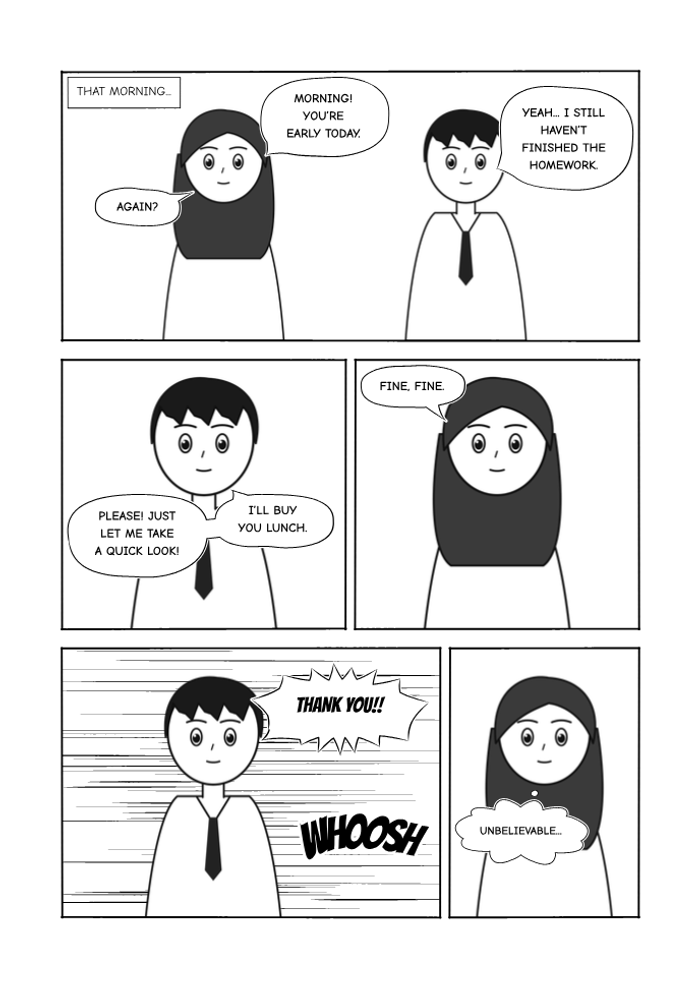
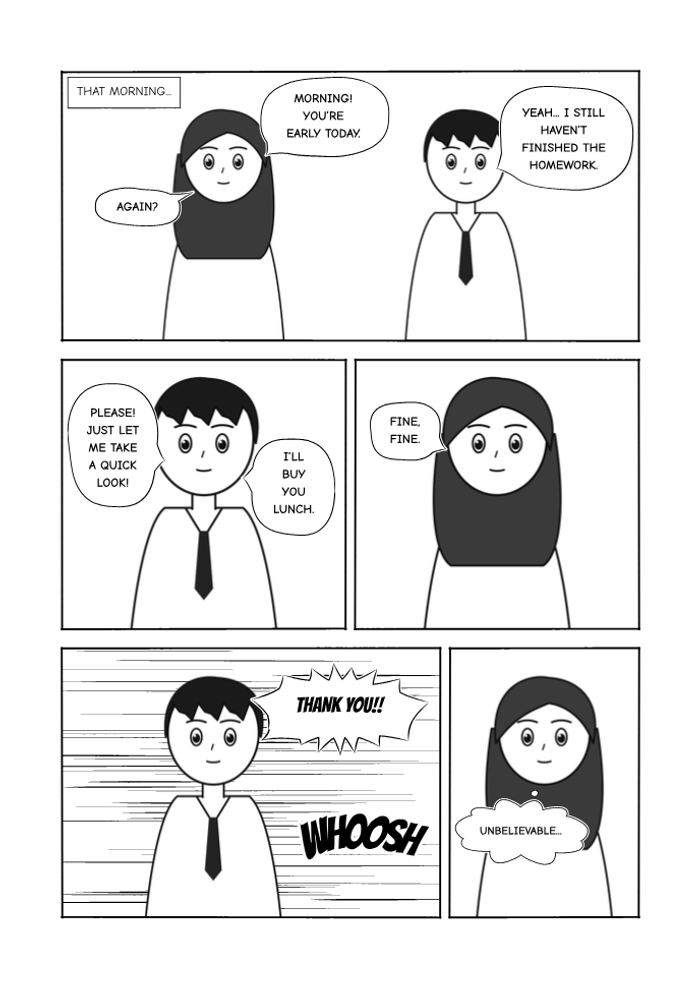
自動配置で行の長さを変えた組み方も候補にし、人物を覆わない位置を選べるようにする（reshape）

Changed region(s): [[0.09, 0.3947, 0.48, 0.6073], [0.51, 0.3644, 0.66, 0.4555]]

diff --git a/src/render/compose.ts b/src/render/compose.ts
@@ -1,6 +1,6 @@
 // Page composition: layout all elements and build the display list (spec 4.12).
 import { BLACK, WHITE, parseColor } from "../core/color.js";
-import type { DiagnosticBag } from "../core/diagnostics.js";
+import { DiagnosticBag } from "../core/diagnostics.js";
 import { Rng } from "../core/random.js";
 import { parseAngle, toMm } from "../core/units.js";
 import { type ElemCtx, type Silhouette, placeCtx, tag } from "../elements/context.js";
@@ -195,7 +195,14 @@ export async function composePage(doc: ResolvedDoc, page: RPage, physicalIndex: 
     }
     // place balloons
     const sils = await silhouettes(refs, ctx);
-    placeBalloons(plans.map((p) => p.plan), ctx, refs, processed, sils);
+    const replan = (pl: BalloonPlan, props: Obj): BalloonPlan | null => {
+      try {
+        return planBalloon({ ...pl.el, props }, { ...ctx, bag: new DiagnosticBag(), coordsBox: coordsFor(pl.el, ctx, geom) });
+      } catch {
+        return null;
+      }
+    };
+    placeBalloons(plans.map((p) => p.plan), ctx, refs, processed, sils, replan);
     ctx = { ...ctx, silhouettes: sils };
     // consecutive auto-placed lines of one speaker that end up side by side are joined (one tail)
     const linkedIds = new Set<string>();
@@ -880,7 +887,7 @@ function silhouetteCover(r: Rect, sils: Silhouette[]): number {
   return Math.min(1, cov);
 }
 
-function placeBalloons(plans: BalloonPlan[], ctx: ElemCtx, refs: RefRegistry, processed: Map<string, { bbox: Rect }>, sils: Silhouette[] = []) {
+function placeBalloons(plans: BalloonPlan[], ctx: ElemCtx, refs: RefRegistry, processed: Map<string, { bbox: Rect }>, sils: Silhouette[] = [], replan?: (pl: BalloonPlan, props: Obj) => BalloonPlan | null) {
   const u = ctx.u;
   const geom = ctx.geom;
   const rtl = geom.rtl;
@@ -957,13 +964,15 @@ function placeBalloons(plans: BalloonPlan[], ctx: ElemCtx, refs: RefRegistry, pr
     prevRect: Rect | null;
     centers: Map<BalloonPlan, Vec>;
     costs: Map<BalloonPlan, number>;
+    /** the variant (line length) chosen for each balloon */
+    shapes: Map<BalloonPlan, BalloonPlan>;
     total: number;
     flowX: number;
     flowY: number;
     rowH: number;
   }
   const BEAM = 6;
-  let beam: BeamState[] = [{ rects: placedRects.slice(), prevS: null, prevRect: null, centers: new Map(), costs: new Map(), total: 0, flowX: rtl ? area.x + area.w : area.x, flowY: area.y, rowH: 0 }];
+  let beam: BeamState[] = [{ rects: placedRects.slice(), prevS: null, prevRect: null, centers: new Map(), costs: new Map(), shapes: new Map(), total: 0, flowX: rtl ? area.x + area.w : area.x, flowY: area.y, rowH: 0 }];
   const step = Math.max(1.5 * u.k, Math.min(area.w, area.h) / 28);
   const air = 2 * u.k;
   for (const pl of plans) {
@@ -1001,33 +1010,47 @@ function placeBalloons(plans: BalloonPlan[], ctx: ElemCtx, refs: RefRegistry, pr
     const who = pl.props.who as string | undefined;
     const offSide = isObj(pl.props.tail) ? ((pl.props.tail as Obj).offscreen as string | undefined) : undefined;
     const speaker = who && !offSide ? refs.point(who, pid) : null;
-    const R = (w + h) / 4;
     // cost weights (spec 6.12.2), overridable per balloon with autoPlace.weights
-    const W = { order: 120, rise: 30, flow: 3, start: 4, overlap: 50, avoid: 60, figure: 12, speaker: 1.5, tail: 4, top: 1, outside: 30, offscreen: 8, ...((apOf(pl).weights as Record<string, number> | undefined) ?? {}) };
-    // the parts of the cost that do not depend on the other balloons are computed once
-    const cells: { c: Vec; rect: Rect; base: number; s: number }[] = [];
-    for (let y = area.y + h / 2; y <= area.y + area.h - h / 2 + 0.01 || (area.h < h && y <= area.y + h / 2 + 0.01); y += step) {
-      for (let x = area.x + w / 2; x <= area.x + area.w - w / 2 + 0.01 || (area.w < w && x <= area.x + w / 2 + 0.01); x += step) {
-        const c = { x, y };
-        const rect = { x: x - w / 2, y: y - h / 2, w, h };
-        const A = w * h;
-        let cost = 0;
-        // lettering keeps a little air around it: text and SFX boxes count with a margin
-        for (const ob of obstacles) cost += (ob.w === 60 ? W.avoid : ob.w) * (ob.ellipse ? ellipseOverlap(rect, ob.r) : rectOverlapArea(rect, rectInset(ob.r, -air)) / A);
-        for (const hr of hard) if (rectOverlapArea(rect, hr) > 0) cost += 1000;
-        if (sils.length) cost += W.figure * silhouetteCover(rect, sils);
-        if (speaker) cost += W.speaker * Math.abs(Math.hypot(x - speaker.x, y - speaker.y) / R - 1.6);
-        cost += W.top * ((y - area.y) / Math.max(1, area.h));
-        if (offSide) {
-          const dEdge = offSide === "right" ? area.x + area.w - (x + w / 2) : offSide === "left" ? x - w / 2 - area.x : offSide === "top" ? y - h / 2 - area.y : area.y + area.h - (y + h / 2);
-          cost += W.offscreen * Math.max(0, dEdge) / Math.max(1, offSide === "left" || offSide === "right" ? area.w : area.h);
-        }
-        const inside = rectIntersect(rect, area);
-        cost += W.outside * (1 - (inside ? inside.w * inside.h : 0) / A);
-        cells.push({ c, rect, base: cost, s: sOf(c, h) });
+    const W = { order: 120, rise: 30, flow: 3, start: 4, overlap: 50, avoid: 60, figure: 25, speaker: 1.5, tail: 4, top: 1, outside: 30, offscreen: 8, reshape: 3, ...((apOf(pl).weights as Record<string, number> | undefined) ?? {}) };
+    // the balloon may also be set with shorter or longer lines when that finds it a free place
+    const variants: { vp: BalloonPlan; extra: number }[] = [{ vp: pl, extra: 0 }];
+    if (replan && apOf(pl).reshape !== false && pl.props.maxChars === undefined && Array.from(pl.text.plain ?? "").length > 5) {
+      const base = pl.text.lines.length ? Math.max(...pl.text.lines.map((l) => Array.from(l.text ?? "").length)) : 8;
+      for (const m of [Math.max(3, Math.round(base * 0.6)), Math.round(base * 1.5)]) {
+        if (m === base) continue;
+        const vp = replan(pl, { ...pl.props, maxChars: m });
+        if (vp && (Math.abs(vp.outer.w - pl.outer.w) > 1 || Math.abs(vp.outer.h - pl.outer.h) > 1)) variants.push({ vp, extra: W.reshape });
       }
     }
-    if (!cells.length) cells.push({ c: center(area), rect: { x: center(area).x - w / 2, y: center(area).y - h / 2, w, h }, base: 999, s: sOf(center(area), h) });
+    // the parts of the cost that do not depend on the other balloons are computed once
+    const cells: { c: Vec; rect: Rect; base: number; s: number; vp: BalloonPlan; w: number; h: number }[] = [];
+    for (const { vp, extra } of variants) {
+      const w = vp.outer.w;
+      const h = vp.outer.h;
+      const R = (w + h) / 4;
+      for (let y = area.y + h / 2; y <= area.y + area.h - h / 2 + 0.01 || (area.h < h && y <= area.y + h / 2 + 0.01); y += step) {
+        for (let x = area.x + w / 2; x <= area.x + area.w - w / 2 + 0.01 || (area.w < w && x <= area.x + w / 2 + 0.01); x += step) {
+          const c = { x, y };
+          const rect = { x: x - w / 2, y: y - h / 2, w, h };
+          const A = w * h;
+          let cost = extra;
+          // lettering keeps a little air around it: text and SFX boxes count with a margin
+          for (const ob of obstacles) cost += (ob.w === 60 ? W.avoid : ob.w) * (ob.ellipse ? ellipseOverlap(rect, ob.r) : rectOverlapArea(rect, rectInset(ob.r, -air)) / A);
+          for (const hr of hard) if (rectOverlapArea(rect, hr) > 0) cost += 1000;
+          if (sils.length) cost += W.figure * silhouetteCover(rect, sils);
+          if (speaker) cost += W.speaker * Math.abs(Math.hypot(x - speaker.x, y - speaker.y) / R - 1.6);
+          cost += W.top * ((y - area.y) / Math.max(1, area.h));
+          if (offSide) {
+            const dEdge = offSide === "right" ? area.x + area.w - (x + w / 2) : offSide === "left" ? x - w / 2 - area.x : offSide === "top" ? y - h / 2 - area.y : area.y + area.h - (y + h / 2);
+            cost += W.offscreen * Math.max(0, dEdge) / Math.max(1, offSide === "left" || offSide === "right" ? area.w : area.h);
+          }
+          const inside = rectIntersect(rect, area);
+          cost += W.outside * (1 - (inside ? inside.w * inside.h : 0) / A);
+          cells.push({ c, rect, base: cost, s: sOf(c, h), vp, w, h });
+        }
+      }
+    }
+    if (!cells.length) cells.push({ c: center(area), rect: { x: center(area).x - w / 2, y: center(area).y - h / 2, w, h }, base: 999, s: sOf(center(area), h), vp: pl, w, h });
     for (const st of beam) {
       const scored = cells.map((cell) => {
         let cost = cell.base;
@@ -1039,13 +1062,13 @@ function placeBalloons(plans: BalloonPlan[], ctx: ElemCtx, refs: RefRegistry, pr
           // letterers set the next balloon right after the previous one, or at the start of the next row
           const P = st.prevRect;
           const g = 1.5 * u.k;
-          const nextX = rtl ? P.x - g - w / 2 : P.x + P.w + g + w / 2;
-          const rowX = rtl ? area.x + area.w - w / 2 : area.x + w / 2;
+          const nextX = rtl ? P.x - g - cell.w / 2 : P.x + P.w + g + cell.w / 2;
+          const rowX = rtl ? area.x + area.w - cell.w / 2 : area.x + cell.w / 2;
           const d1 = Math.hypot(cell.c.x - nextX, cell.rect.y - P.y);
           const d2 = Math.hypot(cell.c.x - rowX, cell.rect.y - (P.y + P.h + g));
           cost += W.flow * Math.min(d1, d2) / Math.max(1, Math.hypot(area.w, area.h));
         }
-        const A = w * h;
+        const A = cell.w * cell.h;
         // balloons that touch read as one shape: keep about 2 mm between them
         for (const pr of st.rects) cost += W.overlap * (rectOverlapArea(cell.rect, pr) / A) + W.overlap * 0.3 * (rectOverlapArea(cell.rect, rectInset(pr, -air)) / A);
         // tail path crossing other balloons
@@ -1057,7 +1080,7 @@ function placeBalloons(plans: BalloonPlan[], ctx: ElemCtx, refs: RefRegistry, pr
       const picks: typeof scored = [];
       for (const sc of scored) {
         if (picks.length >= BEAM) break;
-        if (picks.some((pk) => Math.hypot(pk.cell.c.x - sc.cell.c.x, pk.cell.c.y - sc.cell.c.y) < step * 2.5)) continue;
+        if (picks.some((pk) => pk.cell.vp === sc.cell.vp && Math.hypot(pk.cell.c.x - sc.cell.c.x, pk.cell.c.y - sc.cell.c.y) < step * 2.5)) continue;
         picks.push(sc);
       }
       for (const pk of picks) {
@@ -1065,7 +1088,9 @@ function placeBalloons(plans: BalloonPlan[], ctx: ElemCtx, refs: RefRegistry, pr
         centers.set(pl, pk.cell.c);
         const costs = new Map(st.costs);
         costs.set(pl, pk.cost);
-        next.push({ ...st, rects: [...st.rects, pk.cell.rect], prevS: pk.cell.s, prevRect: pk.cell.rect, centers, costs, total: st.total + pk.cost });
+        const shapes = new Map(st.shapes);
+        shapes.set(pl, pk.cell.vp);
+        next.push({ ...st, rects: [...st.rects, pk.cell.rect], prevS: pk.cell.s, prevRect: pk.cell.rect, centers, costs, shapes, total: st.total + pk.cost });
       }
     }
     next.sort((p, q) => p.total - q.total);
@@ -1077,6 +1102,8 @@ function placeBalloons(plans: BalloonPlan[], ctx: ElemCtx, refs: RefRegistry, pr
     if (pl.explicit || !c) continue;
     const threshold = typeof apOf(pl).threshold === "number" ? (apOf(pl).threshold as number) : 25;
     if ((chosen.costs.get(pl) ?? 0) > threshold) ctx.bag.warn("BALLOON_NO_SPACE", `no good position for balloon ${pl.el.id}`, { path: pl.el.path, elementId: pl.el.id });
+    const vp = chosen.shapes.get(pl);
+    if (vp && vp !== pl) Object.assign(pl, { ...vp, el: pl.el, props: pl.props });
     pl.center = { x: c.x - (pl.outer.x + pl.outer.w / 2), y: c.y - (pl.outer.y + pl.outer.h / 2) };
   }
   // reading-order and overlap checks over the final positions

diff --git a/docs/06-balloons.md b/docs/06-balloons.md
@@ -435,7 +435,8 @@ panels:
 | 読み始め | `start` | 先頭の吹き出しの、読み始めの角（`rtl` なら右上）からの距離 | 4 |
 | 重なり | `overlap` | 他の吹き出し・文字との重なりの面積の比。吹き出し・文字・擬音の矩形は 2 bmm 広げて測り（吹き出しどうしは広げた部分を 0.3 倍で数える）、くっつき過ぎを避ける | 50 |
 | 回避領域 | `avoid` | `face`、`avoid` との重なりの比。`face` は外接矩形に内接する楕円（12 % 広げる）として測る。`mouth` を覆う場合は 1000 | 60 |
-| 人物 | `figure` | キャラクターの画像の不透明な部分（シルエット）を覆う比 | 12 |
+| 人物 | `figure` | キャラクターの画像の不透明な部分（シルエット）を覆う比 | 25 |
+| 組み替え | `reshape` | 行の長さを変えた組み方（下記）を使う場合に加える | 3 |
 | 話者との距離 | `speaker` | 話者のアンカーとの距離が、吹き出しの半径の 1.6 倍から離れるほど大きい | 1.5 |
 | しっぽ | `tail` | 話者へのしっぽの経路が、置いた吹き出しと交わるごとに加える | 4 |
 | 上寄せ | `top` | 中心の y の正規化値（上ほど小さい） | 1 |
@@ -443,6 +444,7 @@ panels:
 | 画面外の話者 | `offscreen` | 画面外の話者（`tail.offscreen`）の側の辺から離れる距離の比 | 8 |
 
 4. 同点の候補は、読み始めの角に近い順（`rtl` では上、次に右）で選ぶ。
+4'. `maxChars` を指定していない吹き出しは、元の組み方に加えて、1 行（列）の文字数を 0.6 倍と 1.5 倍にした組み方も候補にし、すべての組み方の候補点を同じビームで比べる（`autoPlace.reshape: false` で無効）。狭いコマで、人物を覆う代わりに頭の横の細い隙間に収められるようにする。
 5. 採った配置で、吹き出しの費用がしきい値（`autoPlace.threshold`、既定 25）を超える場合は、警告（`BALLOON_NO_SPACE`）を出す（文字サイズを縮めての再試行は今後の拡張）。
 
 重みとしきい値は `defaults.balloon.autoPlace.weights`、`autoPlace.threshold` で変更できる。結果は決定的でなければならない。
